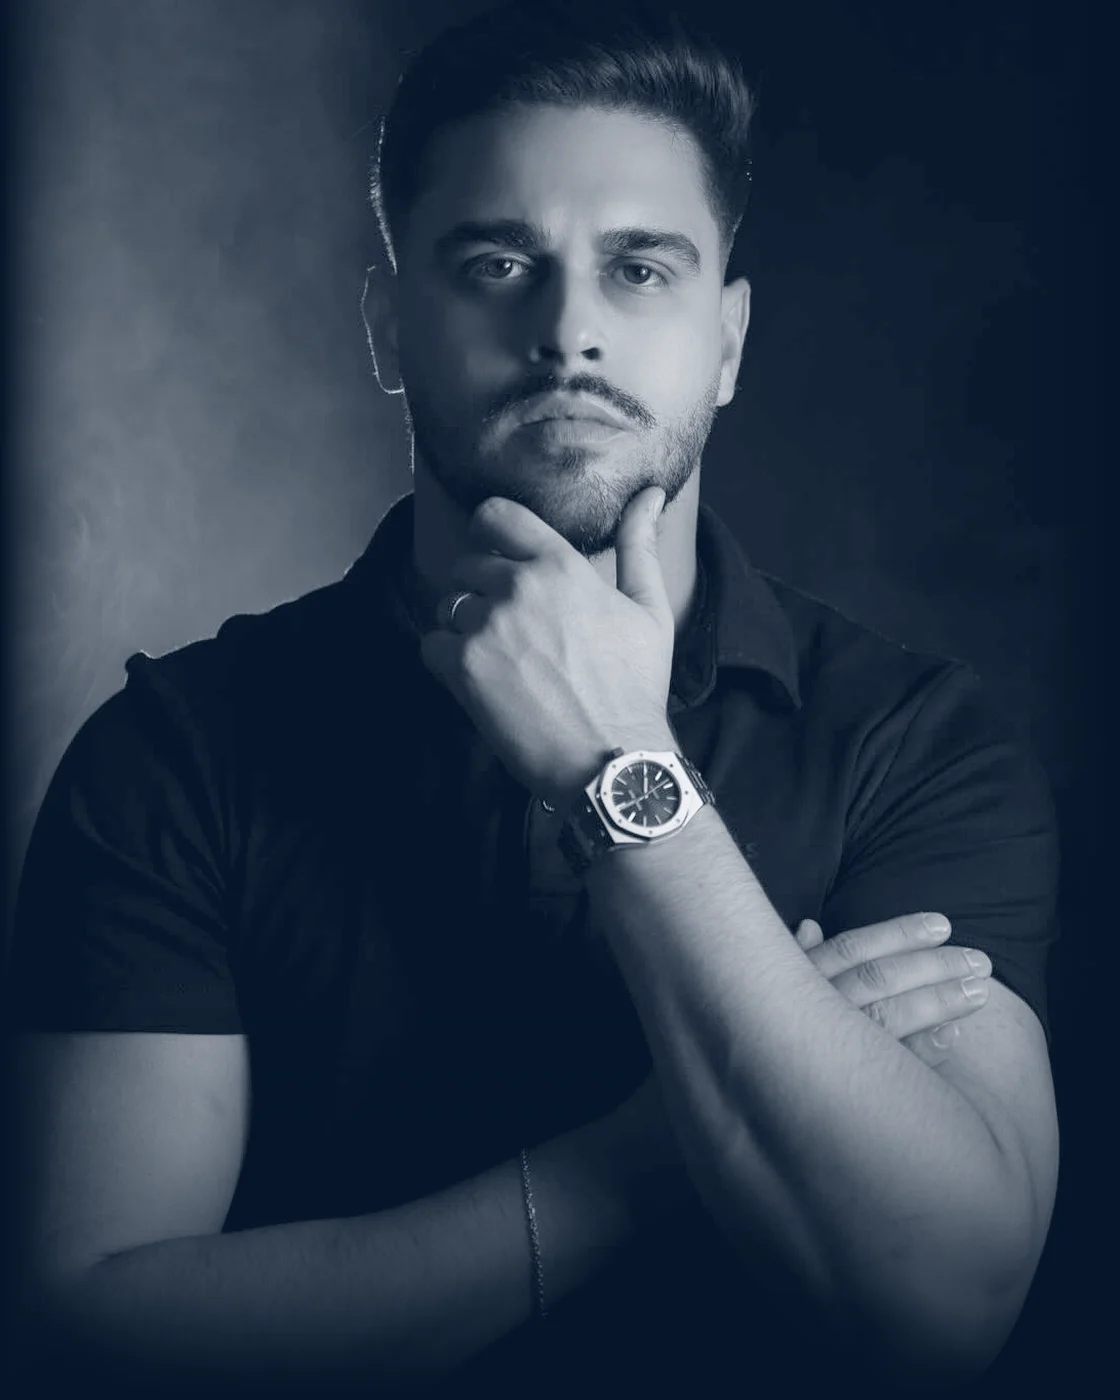
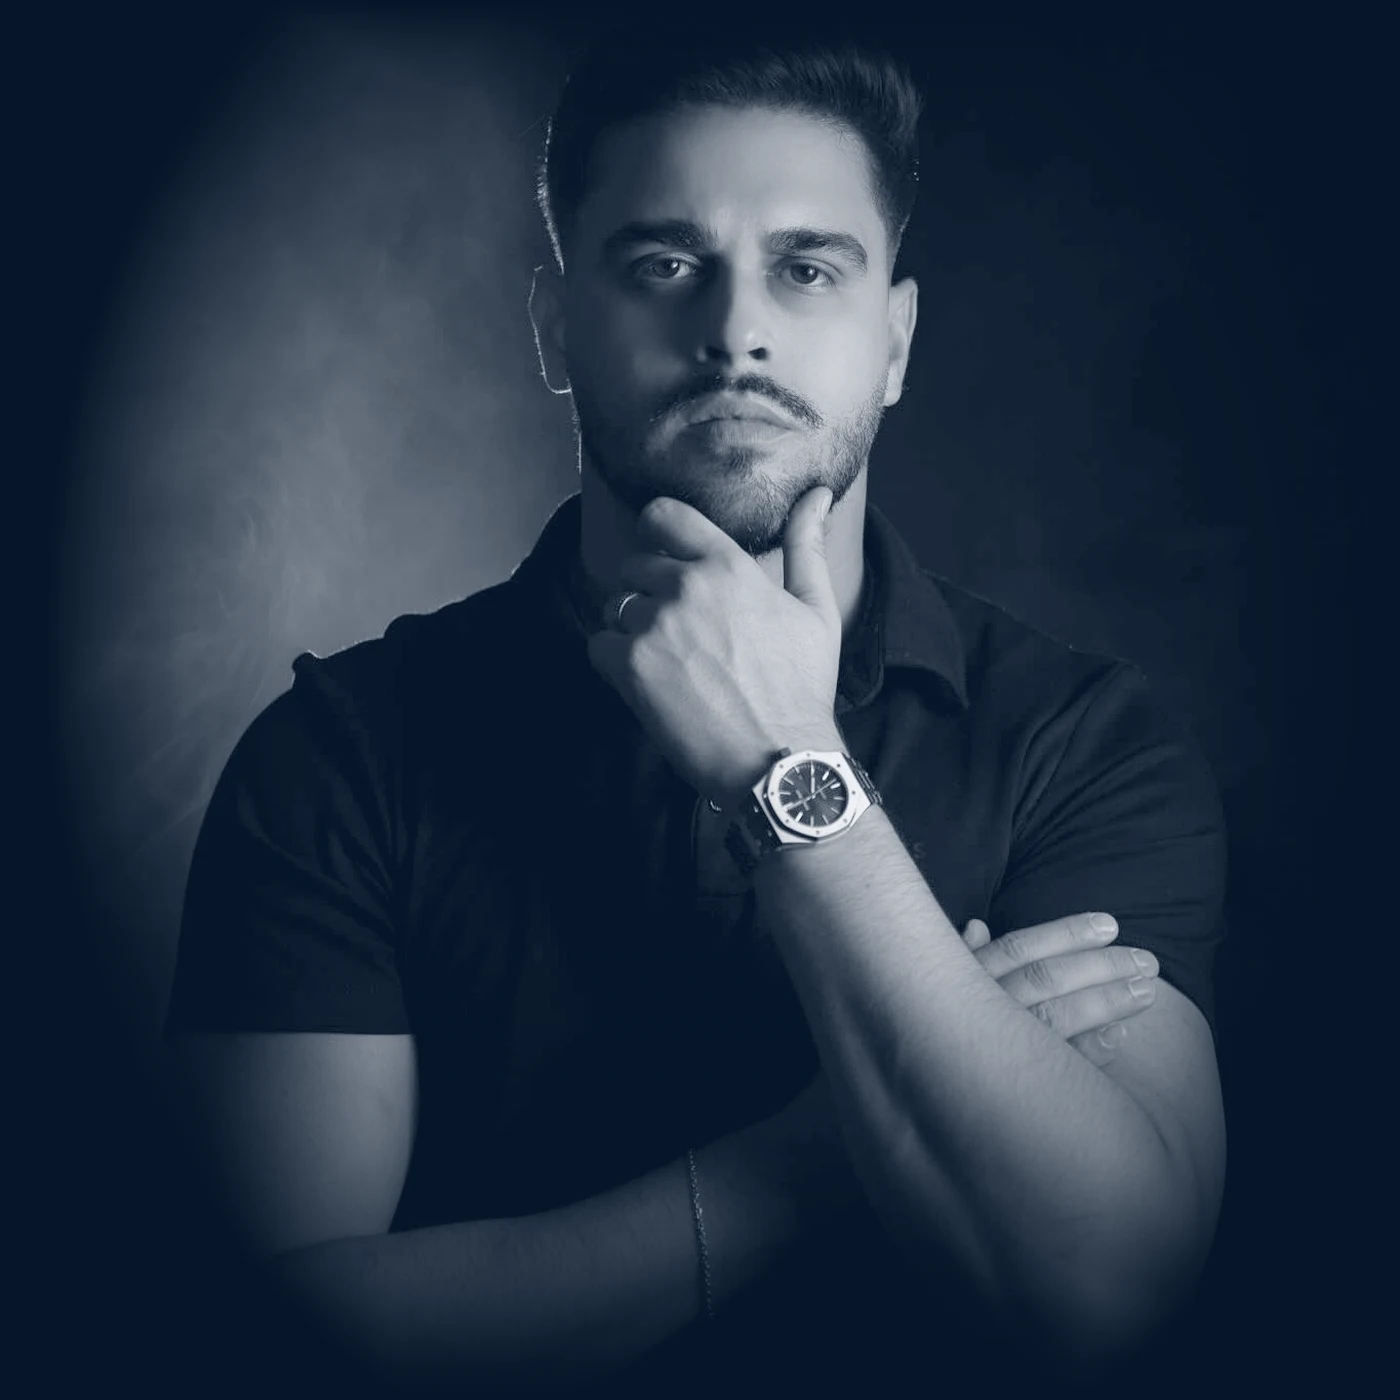
Super Live: topo como pôster, com a foto grande fundida à página por máscara elíptica (sem caixa nem corte) e o título por cima

diff --git a/superlive-globalfly/superlive.css b/superlive-globalfly/superlive.css
@@ -334,3 +334,34 @@ html:has(body.sl) { overflow-x: hidden; }
 .sl-ip-reflexo { background: linear-gradient(112deg, transparent 0%, transparent calc(var(--brilho) - 18%), rgba(255, 255, 255, .07) calc(var(--brilho) - 4%), rgba(255, 255, 255, .02) calc(var(--brilho) + 6%), transparent calc(var(--brilho) + 22%), transparent 100%); }
 .sl-iphone .sl-fone-topo { padding: 4px 12px 10px 8px; }
 .sl-ip-voltar { width: 24px; height: 24px; }
+
+/* ------------------------------------------------ topo como pôster (25/11): a foto é o fundo da cena, grande, fundida com a página */
+.sl-heroi { overflow: clip; }
+.sl-cartaz { display: block; min-height: clamp(520px, 46vw, 660px); padding-top: clamp(40px, 6vw, 90px); }
+.sl-cartaz-texto { position: relative; z-index: 2; max-width: 62%; padding-bottom: 0; }
+.sl-titulo { font-size: clamp(110px, 15vw, 230px); line-height: .8; }
+.sl-protagonista { position: absolute; z-index: 0; right: -6%; top: -120px; width: min(880px, 66%); margin: 0; pointer-events: none; }
+.sl-protagonista::before { inset: 4% 6% 30%; background: radial-gradient(closest-side, rgba(242, 178, 92, .34), rgba(242, 178, 92, .08) 60%, transparent 78%); }
+.sl-protagonista img { width: 100%; height: auto; aspect-ratio: 1; mix-blend-mode: lighten; -webkit-mask-image: none; mask-image: none; }
+/* um fio de luz dourada no contorno, como contraluz de estúdio */
+.sl-protagonista::after { content: ""; position: absolute; inset: 0; background: radial-gradient(60% 50% at 62% 30%, rgba(242, 178, 92, .16), transparent 70%); mix-blend-mode: soft-light; pointer-events: none; }
+.sl-heroi-miolo { position: relative; z-index: 2; }
+@media (max-width: 980px) {
+  .sl-cartaz { min-height: 0; padding-top: 0; display: grid; }
+  .sl-cartaz-texto { max-width: none; margin-top: -40%; text-align: center; }
+  .sl-protagonista { position: relative; order: -1; right: auto; top: auto; width: min(620px, 118%); justify-self: center; margin: -40px -9% 0; }
+  .sl-titulo { font-size: clamp(96px, 22vw, 170px); }
+}
+@media (max-width: 720px) {
+  .sl-protagonista { width: 124%; margin: -30px -12% 0; }
+  .sl-cartaz-texto { margin-top: -44%; }
+  .sl-titulo { font-size: 23vw; }
+}
+/* a fusão é por transparência real (máscara elíptica na figura inteira), não por mistura de cor */
+.sl-protagonista { -webkit-mask-image: radial-gradient(ellipse 47% 50% at 52% 47%, #000 52%, transparent 100%); mask-image: radial-gradient(ellipse 47% 50% at 52% 47%, #000 52%, transparent 100%); }
+.sl-protagonista img { mix-blend-mode: normal; }
+.sl-protagonista::after { display: none; }
+.sl-protagonista::before { z-index: 0; inset: 6% 12% 34%; background: radial-gradient(closest-side, rgba(242, 178, 92, .22), transparent 75%); }
+.sl-protagonista img { position: relative; z-index: 1; }
+.sl-heroi { overflow: visible; overflow-x: clip; }
+@media (min-width: 981px) { .sl-protagonista { top: -70px; } }

diff --git a/superlive-globalfly/index.html b/superlive-globalfly/index.html
@@ -42,7 +42,7 @@
         <p class="sl-convidado"><img src="./img/naor.webp" alt="" width="400" height="400" data-convidado-foto /><span>Participação de <b data-convidado>Naor Bezerra</b></span></p>
       </div>
       <figure class="sl-protagonista">
-        <img src="./img/victor-estudio.webp" alt="Victor Cordeiro" width="1120" height="1390" fetchpriority="high" data-protagonista />
+        <img src="./img/victor-estudio.webp" alt="Victor Cordeiro" width="1400" height="1400" fetchpriority="high" data-protagonista />
       </figure>
     </div>
     <script>
